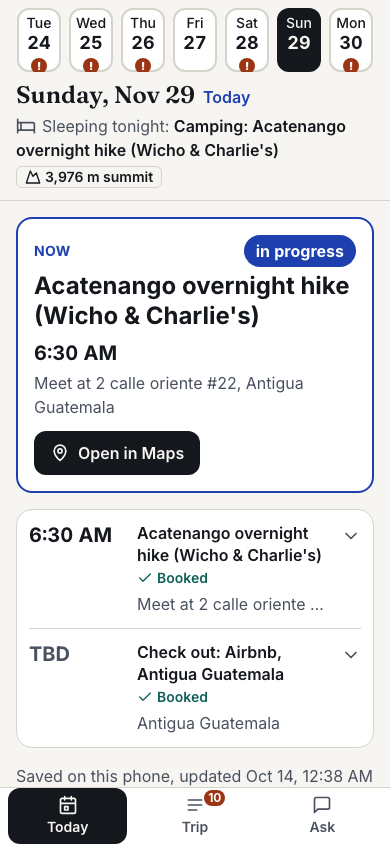
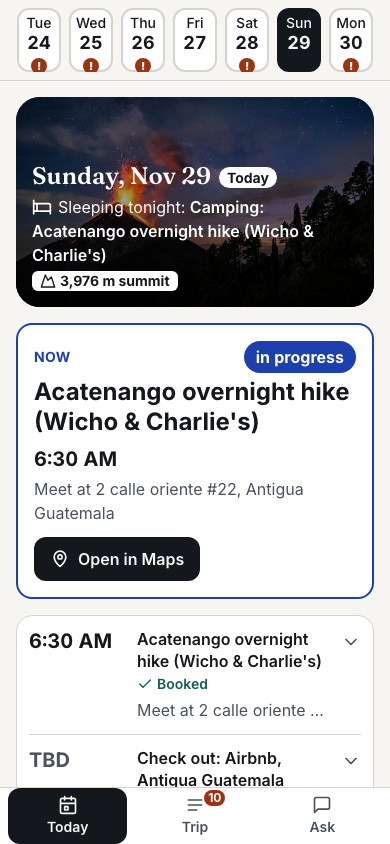
Trip mode: a photo of where we are behind each day's title
Lake Atitlán on lake days, Antigua's arch street on the Antigua day,
Fuego at night on the hike and the morning after. Only the day strip
stays pinned now. Replaces the volcano card under the list.

diff --git a/src/components/trip/TripToday.tsx b/src/components/trip/TripToday.tsx
@@ -63,13 +63,13 @@ export function TripToday({
       }}
     >
       <div className="sticky top-0 z-30 border-b border-line bg-canvas pt-[env(safe-area-inset-top)] md:top-16">
-        <div className="mx-auto max-w-2xl px-4 pt-2 pb-3">
+        <div className="mx-auto max-w-2xl px-4 pt-2 pb-2">
           <DayStrip days={days} selected={day} today={today} onDay={onDay} />
-          <DayHeading status={status} isToday={day === today} />
         </div>
       </div>
 
       <div className="mx-auto flex max-w-2xl flex-col gap-4 px-4 pt-4">
+        <DayHeading status={status} isToday={day === today} afterHike={days.findIndex((d) => d.peakM) === index - 1} />
         <NowCard card={card} />
 
         <section aria-labelledby="day-list">
@@ -98,17 +98,6 @@ export function TripToday({
 
         <InstallHint compact />
 
-        <figure className="relative h-44 overflow-hidden rounded-3xl bg-sunken md:h-56">
-          <Image
-            src="/volcano-sidebar-night.jpg"
-            alt="Volcán de Fuego erupting at night, seen through the pines on Acatenango"
-            fill
-            sizes="(max-width: 672px) 100vw, 672px"
-            className="object-cover"
-          />
-          <div className="absolute inset-0 bg-gradient-to-t from-black/75 via-black/20 to-transparent" aria-hidden="true" />
-          <figcaption className="absolute inset-x-0 bottom-0 p-4 text-lg font-semibold text-[#fff]">Same friends. Higher places.</figcaption>
-        </figure>
       </div>
     </div>
   );
@@ -150,28 +139,57 @@ function DayStrip({ days, selected, today, onDay }: { days: DayStatus[]; selecte
   );
 }
 
-function DayHeading({ status, isToday }: { status: DayStatus; isToday: boolean }) {
+const PHOTOS = {
+  lake: { src: "/lake-atitlan-hero.jpg", alt: "Lake Atitlán with its three volcanoes", className: "object-cover" },
+  antigua: {
+    src: "/antigua-hotel.jpg",
+    alt: "Calle del Arco in Antigua, with the yellow Santa Catalina Arch and Volcán de Agua behind it",
+    // The photo has a frame painted round its edge; the zoom crops it off.
+    className: "scale-110 object-cover",
+  },
+  volcano: {
+    src: "/volcano-sidebar-night.jpg",
+    alt: "Volcán de Fuego erupting at night, seen through the pines on Acatenango",
+    // Keep the eruption above the text.
+    className: "object-cover object-[center_25%]",
+  },
+} as const;
+
+/** The picture for a day: the volcano on the hike and the morning after, otherwise where we are. */
+function photoFor(status: DayStatus, afterHike: boolean) {
+  if (status.peakM || afterHike) return PHOTOS.volcano;
+  if (status.place === "Antigua" || status.place === "Guatemala City") return PHOTOS.antigua;
+  return PHOTOS.lake;
+}
+
+/** The day's title over a photo of where we are, with where we sleep tonight. */
+function DayHeading({ status, isToday, afterHike }: { status: DayStatus; isToday: boolean; afterHike: boolean }) {
+  const photo = photoFor(status, afterHike);
   return (
-    <div className="mt-2 flex flex-col gap-1">
-      <h1 className="font-display text-2xl leading-tight font-semibold">
-        {weekday(status.date, true)}, {monthDay(status.date)}
-        {isToday && <span className="ml-2 align-middle font-sans text-base font-semibold text-now">Today</span>}
-      </h1>
-      <p className="flex flex-wrap items-center gap-x-2 gap-y-1 text-base">
-        <span className="min-w-0">
-          <Icon name="bed" className="mr-1.5 inline size-5 align-[-0.25em] text-muted" />
-          <span className="text-muted">Sleeping tonight: </span>
-          {status.sleepBooked && <strong className="font-semibold">{status.sleep}</strong>}
-        </span>
-        {!status.sleepBooked && <StatusMark status="needs-booking" />}
-        {status.peakM && (
-          <span className="inline-flex items-center gap-1 rounded-md border border-line px-2 text-sm font-semibold">
-            <Icon name="mountain" className="size-4" />
-            {status.peakM.toLocaleString("en-US")} m summit
+    <header className="relative overflow-hidden rounded-3xl bg-ink">
+      <Image src={photo.src} alt={photo.alt} fill priority sizes="(max-width: 672px) 100vw, 672px" className={photo.className} />
+      {/* Dark at the bottom so the white text reads over any part of any photo. */}
+      <div className="absolute inset-0 bg-gradient-to-t from-black/85 via-black/40 to-transparent" aria-hidden="true" />
+      <div className="relative flex min-h-44 flex-col justify-end gap-1 p-4 pt-16 text-[#fff]">
+        <h1 className="font-display text-2xl leading-tight font-semibold">
+          {weekday(status.date, true)}, {monthDay(status.date)}
+          {isToday && <span className="ml-2 rounded-full bg-[#fff] px-2 py-0.5 align-middle font-sans text-sm font-bold text-[#14171c]">Today</span>}
+        </h1>
+        <p className="flex flex-wrap items-center gap-x-2 gap-y-1 text-base">
+          <span className="min-w-0">
+            <Icon name="bed" className="mr-1.5 inline size-5 align-[-0.25em]" />
+            Sleeping tonight: {status.sleepBooked && <strong className="font-semibold">{status.sleep}</strong>}
           </span>
-        )}
-      </p>
-    </div>
+          {!status.sleepBooked && <StatusMark status="needs-booking" />}
+          {status.peakM && (
+            <span className="inline-flex items-center gap-1 rounded-md bg-[#fff] px-2 text-sm font-bold text-[#14171c]">
+              <Icon name="mountain" className="size-4" />
+              {status.peakM.toLocaleString("en-US")} m summit
+            </span>
+          )}
+        </p>
+      </div>
+    </header>
   );
 }
 

diff --git a/src/lib/now.ts b/src/lib/now.ts
@@ -250,6 +250,8 @@ export interface DayStatus {
   sleepBooked: boolean;
   /** Summit height when the day climbs one. */
   peakM: number | null;
+  /** "Lake Atitlán", "Antigua"… where the day is spent, when known. */
+  place: string | null;
 }
 
 export function dayStatuses(trip: Trip): DayStatus[] {
@@ -268,6 +270,6 @@ export function dayStatuses(trip: Trip): DayStatus[] {
       sleep = "Nowhere booked yet";
       sleepBooked = false;
     }
-    return { date, needsAction: open || !sleepBooked, sleep, sleepBooked, peakM: di.peak ? di.elevationM : null };
+    return { date, needsAction: open || !sleepBooked, sleep, sleepBooked, peakM: di.peak ? di.elevationM : null, place: di.place };
   });
 }
